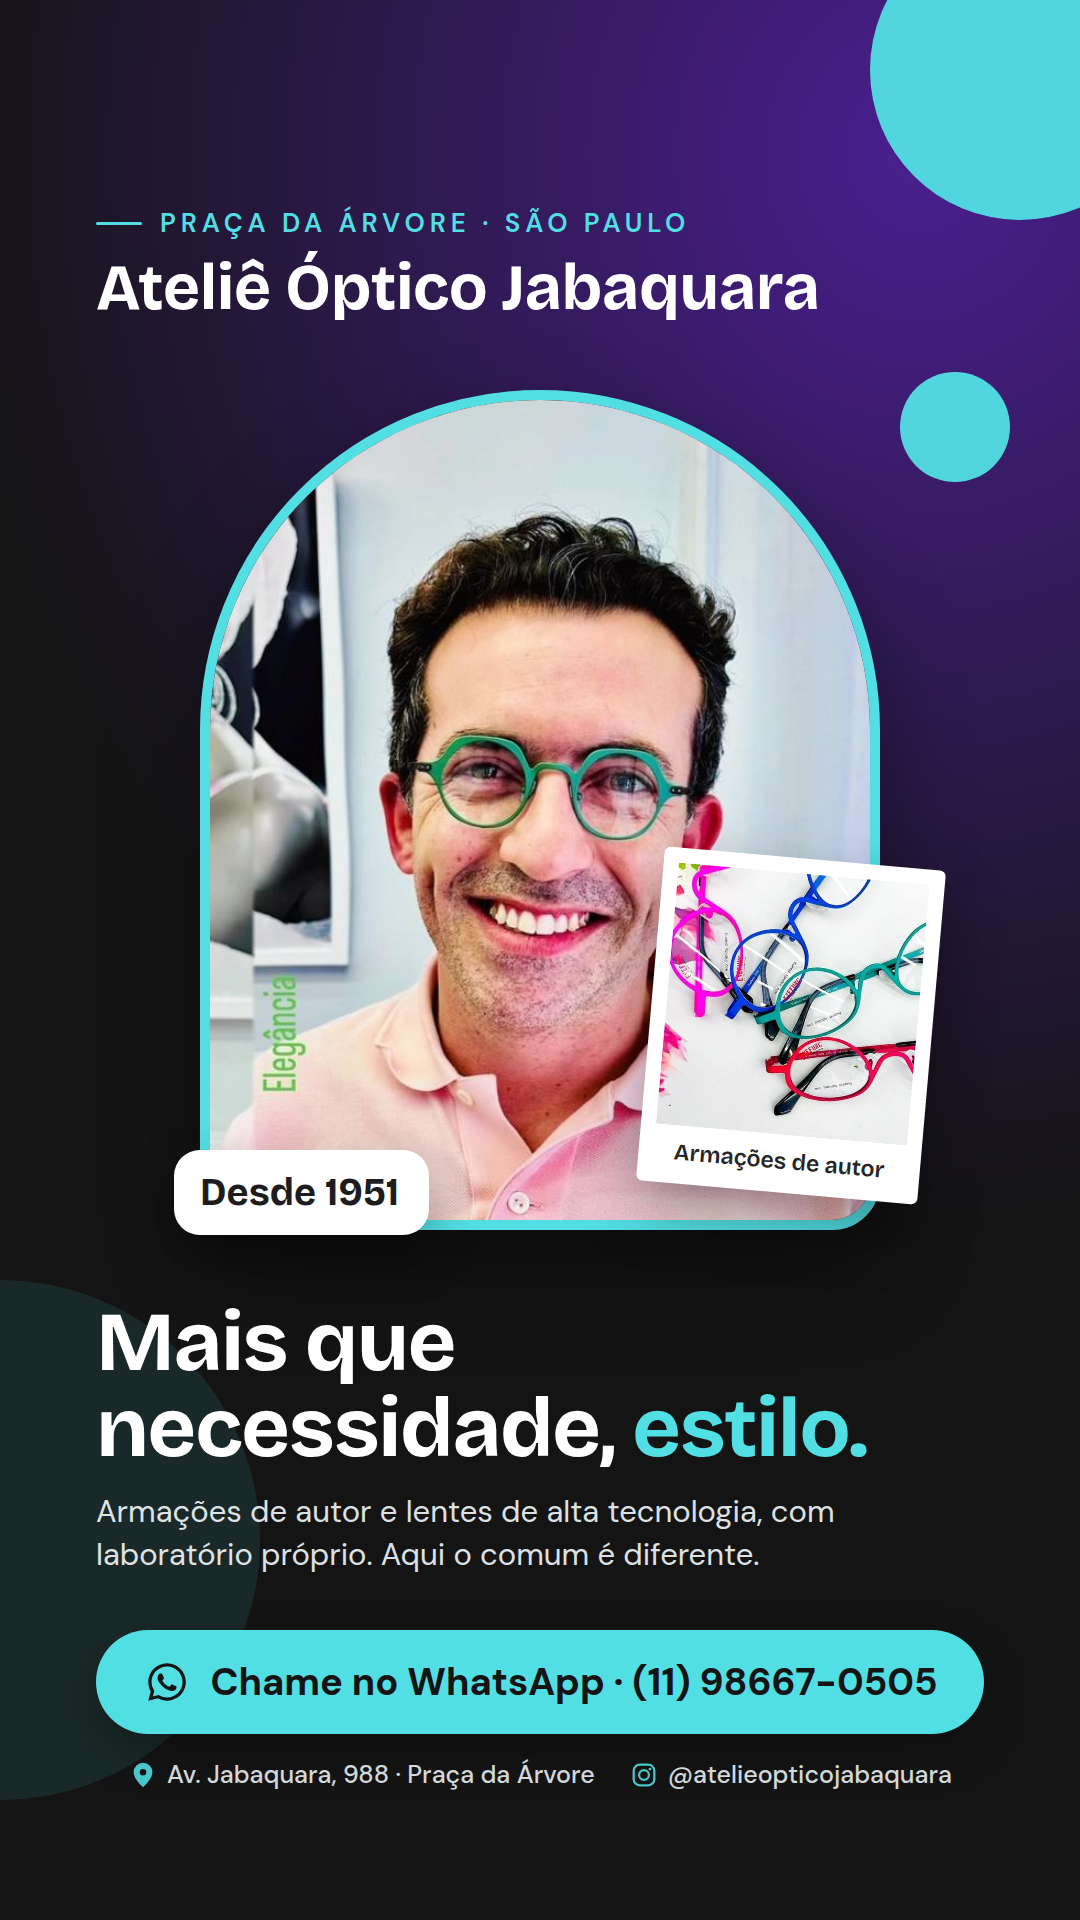
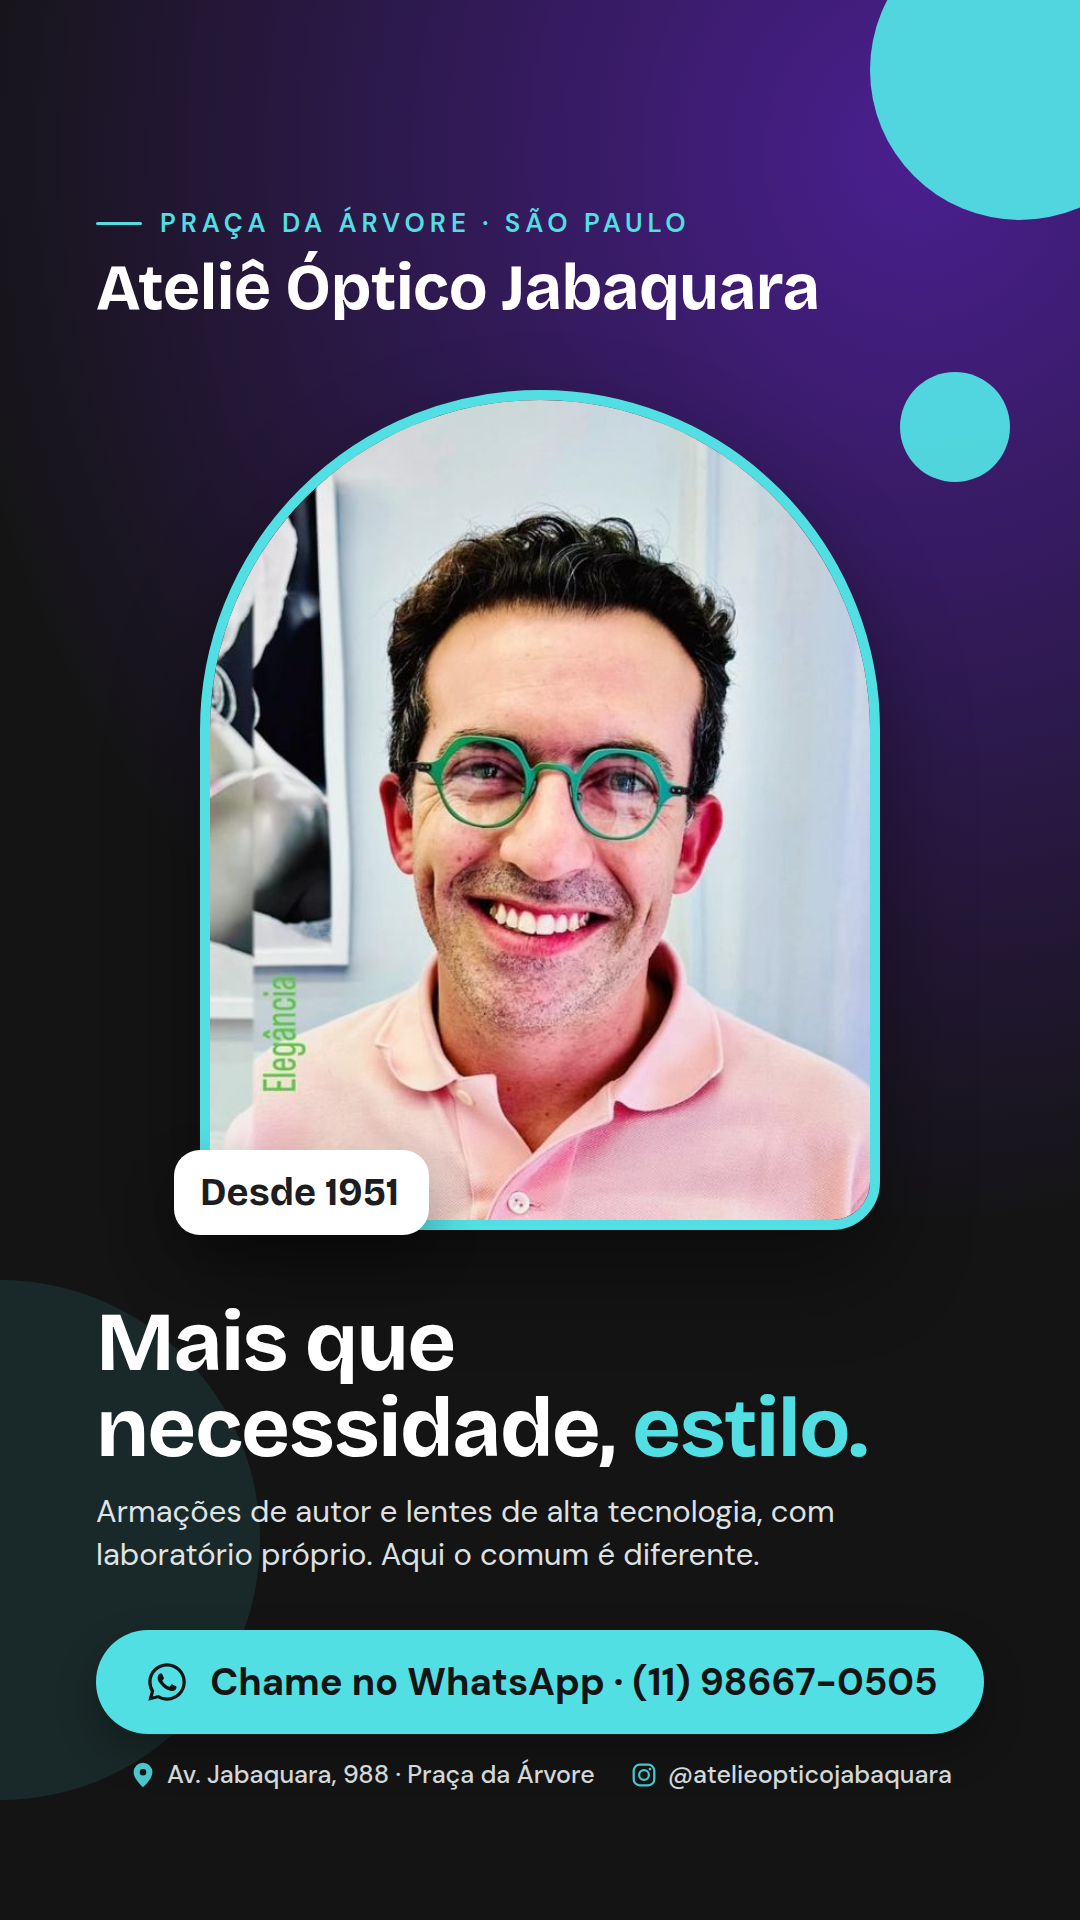
Flyers: uma foto só, sem a foto menor de complemento
Tira a polaroid do gerador e refaz os 14 flyers de ótica com a foto principal sozinha.

Claude-Session: https://claude.ai/code/session_01FcSUYmbzKdxuWzMWFzisWZ

Changed region(s): [[0.5806, 0.4375, 0.8861, 0.6562]]

diff --git a/CONTEXTO.md b/CONTEXTO.md
@@ -301,9 +301,10 @@ demo?". A arte é um presente pronto para os Stories da ótica, pensado para **a
 dono tem que ver e gostar. A gentileza puxa a resposta.
 
 - **Como é:** PNG 1080 × 1920 feito pelo `ferramentas/flyer/gerar.mjs` a partir de `flyers/<id-do-lead>.json`
-  (nome da ótica, bairro, fonte e cores da demo, foto principal em arco, polaroid, selo do Google, título
-  e texto da demo, botão do WhatsApp, endereço e Instagram). Nada importante nos 200 px de cima nem nos
-  170 de baixo (o Instagram cobre).
+  (nome da ótica, bairro, fonte e cores da demo, uma foto em arco, selo do Google, título e texto da demo,
+  botão do WhatsApp, endereço e Instagram). **Uma foto só:** nada de foto menor de complemento (polaroid);
+  o Kaue achou que pesava, menos é mais. Nada importante nos 200 px de cima nem nos 170 de baixo (o
+  Instagram cobre).
 - **Regras:** os mesmos dados conferidos da demo; foto real, de gente sorrindo (cliente, família,
   criança, equipe) antes de produto; a nota só aparece se for 5,0 (abaixo disso, estrelas e total); o
   WhatsApp é o que a ótica divulga para cliente (fachada, bio, Google), não o número pessoal do dono;
